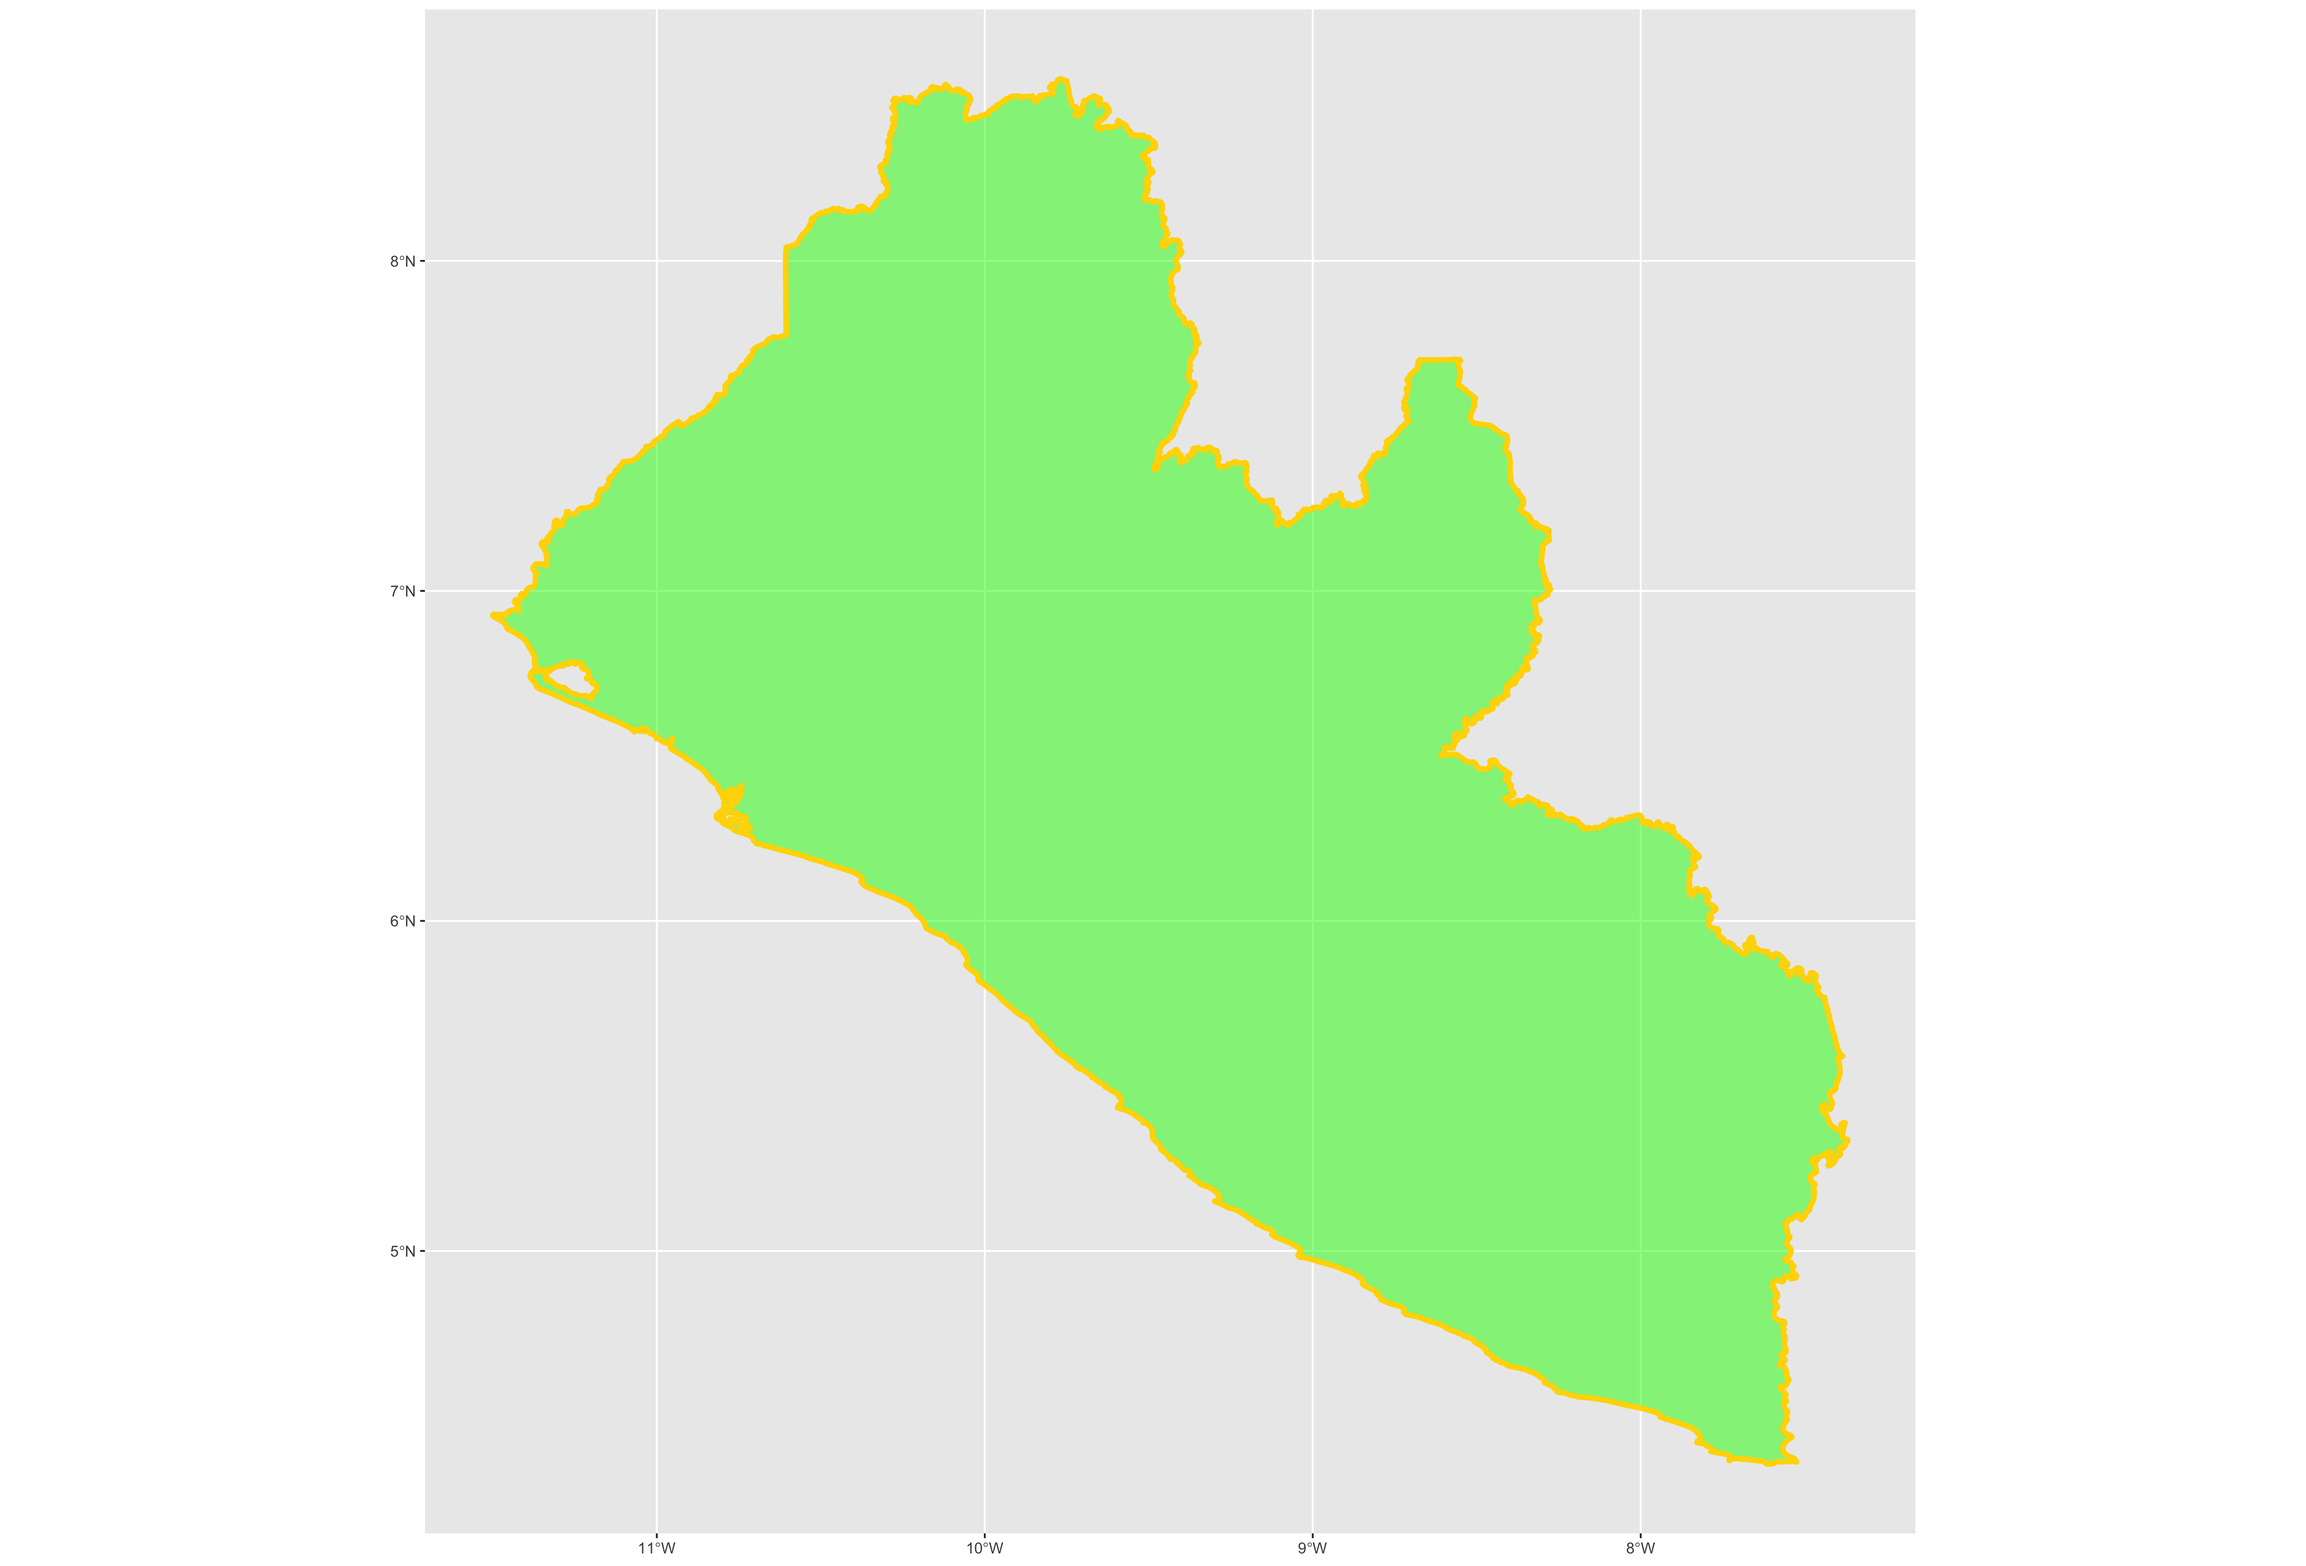
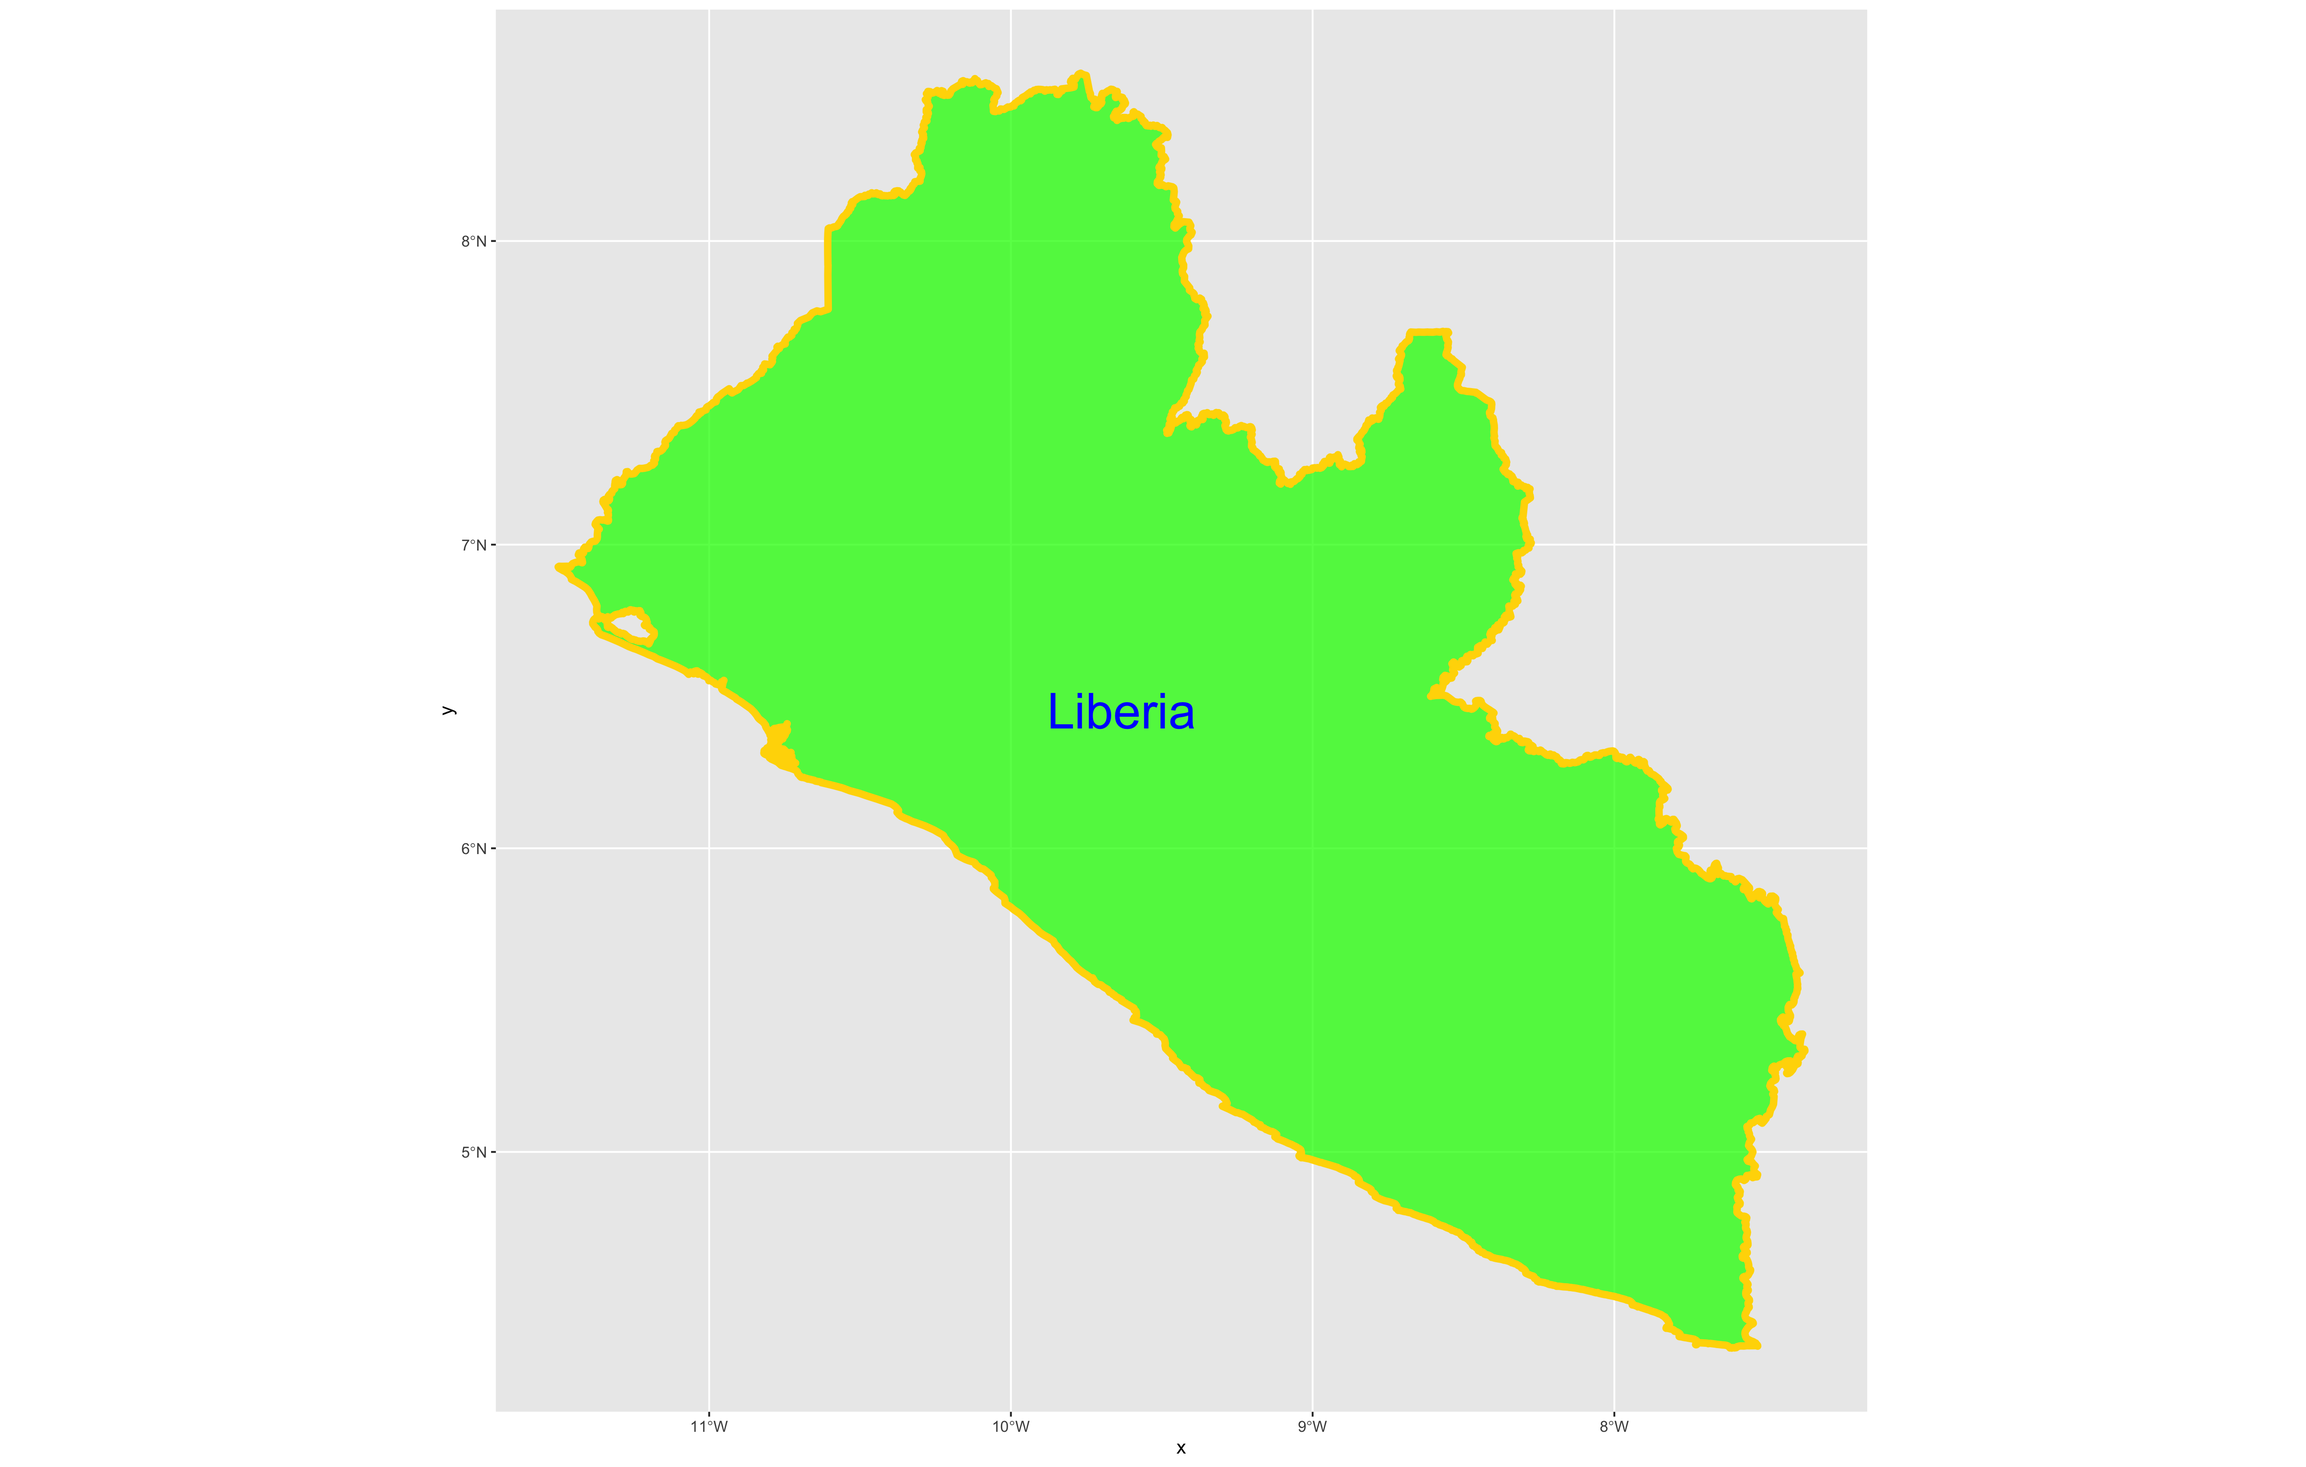
GitBook: [master] one page and 2 assets modified

diff --git a/test/an-introduction-to-spatial-data.md b/test/an-introduction-to-spatial-data.md
@@ -81,36 +81,32 @@ Now that we have conducted a cursory investigation of our simple feature object 
 
 Following the `data =` argument, you can also specifiy the line weight for the border using the `size =` argument.  It is also possible to specify the `color =` as well as the opacity / transparency of your polygon using the `alpha =` argument.  With the following script I have set the international border line weight width to `1.5` , the color of the border to `"gold"` , the fill color for the internal portion of the polygon to `"green"` and the `alpha =`   value to .5 or 50% transparent.
 
-![Liberia with a green fill and gold border](../.gitbook/assets/liberia.png)
+![Liberia with a green fill and gold border](../.gitbook/assets/liberia%20%281%29.png)
 
 It would also be helpful to have a label describing our plot.  In order to do this we can use either the `geom_sf_text()` command or the `geom_sf_label()` command.  In the following snippet of code you will notice that I have added the aesthetics argument within my `geom_sf_text()` command.  The `aes =` argument enables us to specify which variable contains the label we will place on our object.  If you click on the blue arrow to the left of the `lbr_int` object in the top right data pane, the object will expand below to reveal the names of all variables.  The second variable is named `CNTRY_NAME` and provides us with the name we will use as our label, Liberia.  Following the `aes()` argument, you can also specify the `size =` of your label as well as its `color =`.
 
 ```r
 ggplot() +
-  geom_sf(data = lbr_int,
-          size = 2.0,
-          color = "gold",
-          fill = "green",
-          alpha = 0.75) +
-  geom_sf_text(data = lbr_int,
-               aes(label = CNTRY_NAME),
-               size = 10,
-               color = "blue")
+  geom_sf(data = your_sf_obj,
+          size = value,
+          color = "color",
+          fill = "color",
+          alpha = value_between_0_&_1) +
+  geom_sf_text(data = your_sf_obj,
+               aes(label = variable_name),
+               size = value,
+               color = "color")
 ```
 
+![Liberia labelled](../.gitbook/assets/liberia.png)
 
-
-You have successfully created a simple feature object that represents Liberia's border, as well as plotted it.  Good job!  Now continue with the first level of administrative subdivisions for Liberia, counties.  In order to do this, return to your use of the `read_sf()` command in order to import and create an object named `lbr_adm1`.   
+Good job!  You have successfully used ggplot from the tidyverse with the simple features package in order to properly project and plot Liberia's international border, as well as to include a label.  Now continue with the first level of administrative subdivisions, Liberia's fifteen counties.  In order to do this, return to your use of the `read_sf()` command in order to import and create an object named `lbr_adm1`.   
 
 ```r
-lbr_adm1  <- your_command("folder_where_adm1_is_located/lbr_admbnda_adm1_ocha.shp")
+lbr_adm1  <- add_command_here("add_folder_here/add_file_name_here.shp")
 ```
 
-As before you could use data pane in the top right corner to view attribute data.  You can also use the `st_geometry()` command to have a first look at your newly created simple features object that represents Liberia's administrsative subdividion of counties.
-
-![Attribute data for Liberia&apos;s adm1 simple features object](../.gitbook/assets/screen-shot-2019-09-07-at-2.06.49-pm.png)
-
-![Geometry of Liberia&apos;s counties](../.gitbook/assets/screen-shot-2019-09-07-at-2.07.03-pm.png)
+As before you could use the data pane in the top right corner to view attribute data.  You can also use the `st_geometry()` command again to have a first look at your newly created simple features object that spatially describes the boundaries of Liberia's counties.
 
 Instead of having 1 observation with 7 variables as with the international border, now your `lbr_adm1` simple feature object has 15 observations, with each observation having 8 different variables describing some attribute associated with each individual polygon.  Now let's plot both Liberia's international border as well as its 15 counties.  To do this we will again use our `st_geometry()` nested within our`plot()` command while using our `lbr_adm1` object.  As before, continue with an argument that specifies the line weight for each of the counties.  Since we are describing a first level subdivision, graphically it is generally best to use a lineweight that is less than the width used for the international border.  Also, notice that I have added a new argument to the series of commands `add = TRUE` , which will serve to add the county borders to the already plotted international boundary.
 
